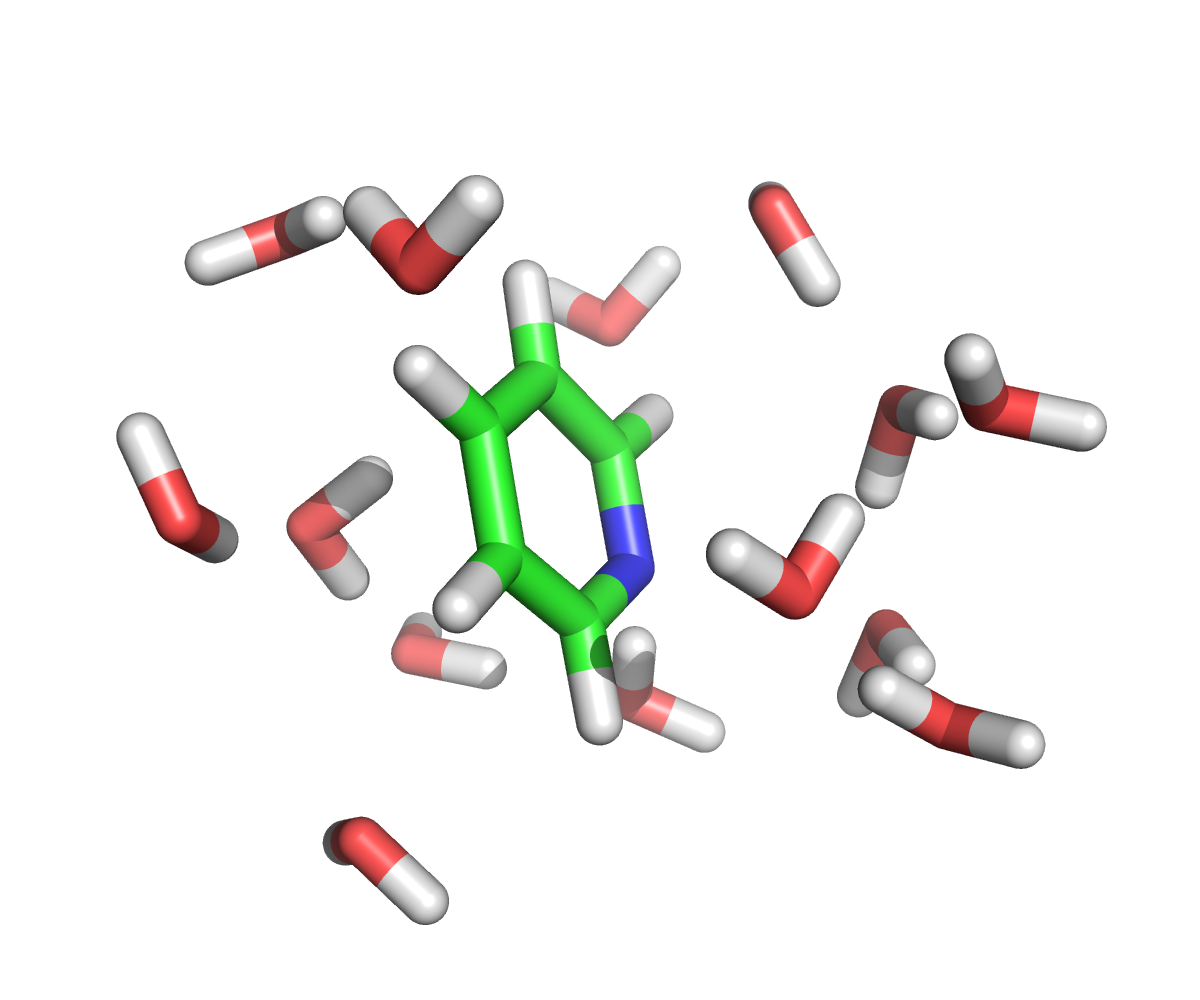
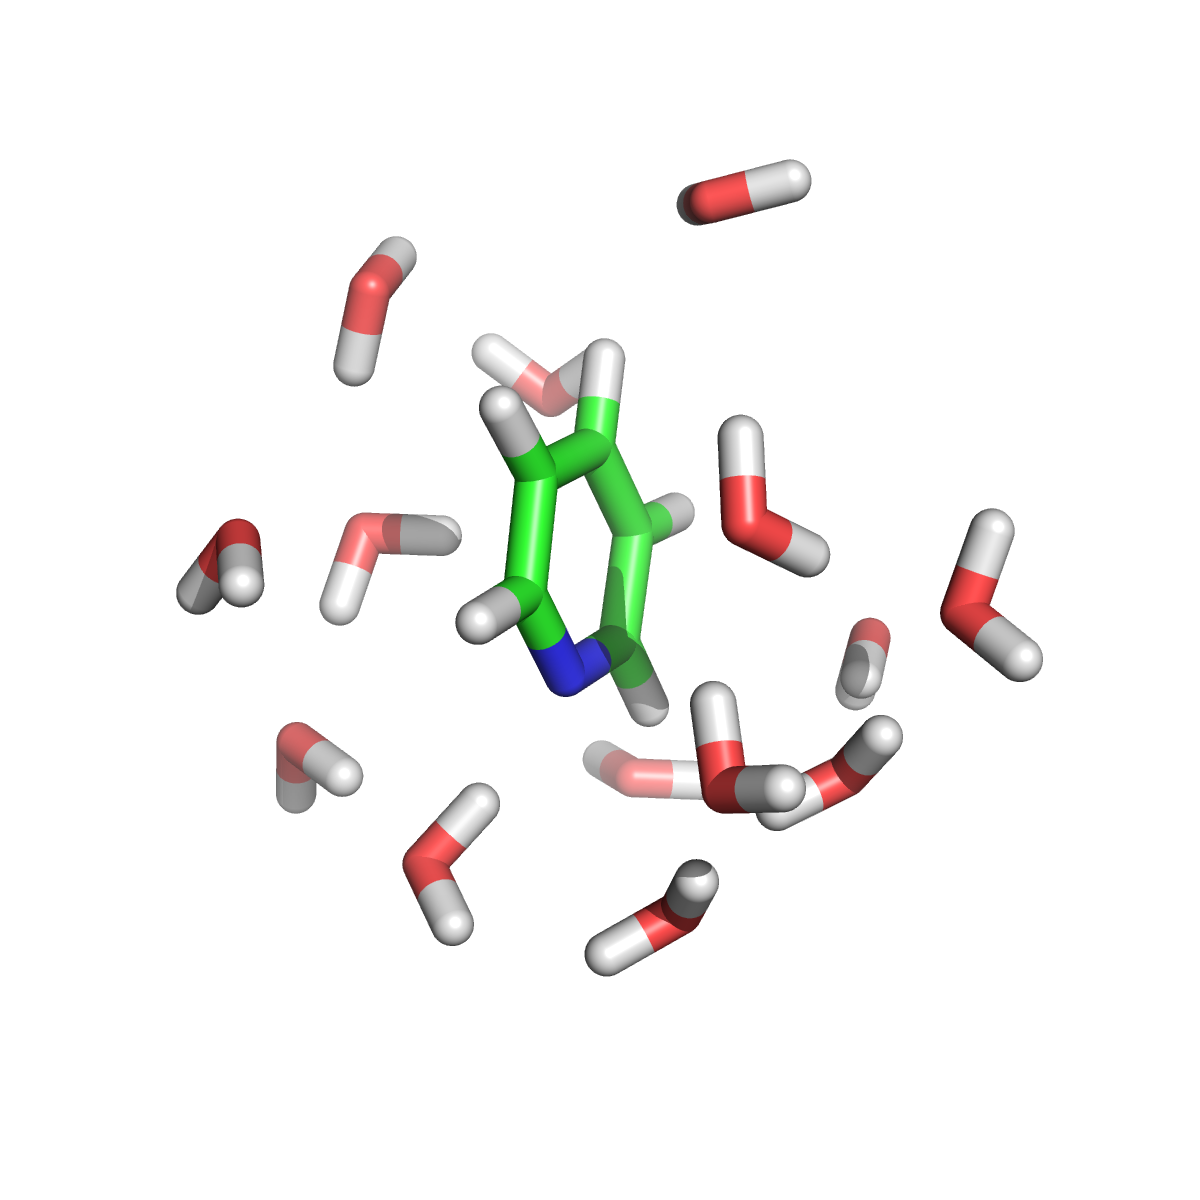
Add base pictures for QM/MM, QM/MM/Continuum and QM/Continuum diagram

Changed region(s): [[0.0925, 0.155, 0.925, 0.837], [0.555, 0.124, 0.7092, 0.31], [0.2467, 0.806, 0.37, 0.93]]

diff --git a/gfx/PyMOL_commands.md b/gfx/PyMOL_commands.md
@@ -1,0 +1,21 @@
+# How to reproduce the pyridine figures
+
+1. Load pyridine_water_5AA.xyz into PyMOL
+2. Stick representation: `show sticks`
+3. White background: `bg_color white`
+4. Make background transparent: `set ray_opaque_background, off`
+5. Rotate until, zoom, fade water cluster until satisfied
+6. Save png of cluster: `png pyridine_water_5AA.png, width=1200, height=1200, dpi=300, ray=1`
+7. Enable SES: `set surface_solvent, off`
+8. Adjust transparency: `set transparency, 0.5`
+9. Adjust quality: `set surface_quality, 1`
+10. Adjust solvent radius: `set solvent_radius, 1.6`
+11. Color surface: `set surface_color, marine`
+12. Show surface: `show surface`
+13. Show background: `set ray_opaque_background, on`
+14. Change background color: `bg_color light_blue`
+15. Save png: `png pyridine_water_5AA+cavity.png, width=1200, height=1200, dpi=300, ray=1`
+16. Select water molecules: `select water, name O*+H2*+H3*+H4*+H5*`
+17. Remove water molecules: `hide water`
+18. Re-do steps for surface
+19. Save png: `png pyridine_cavity.png, width=1200, height=1200, dpi=300, ray=1`
